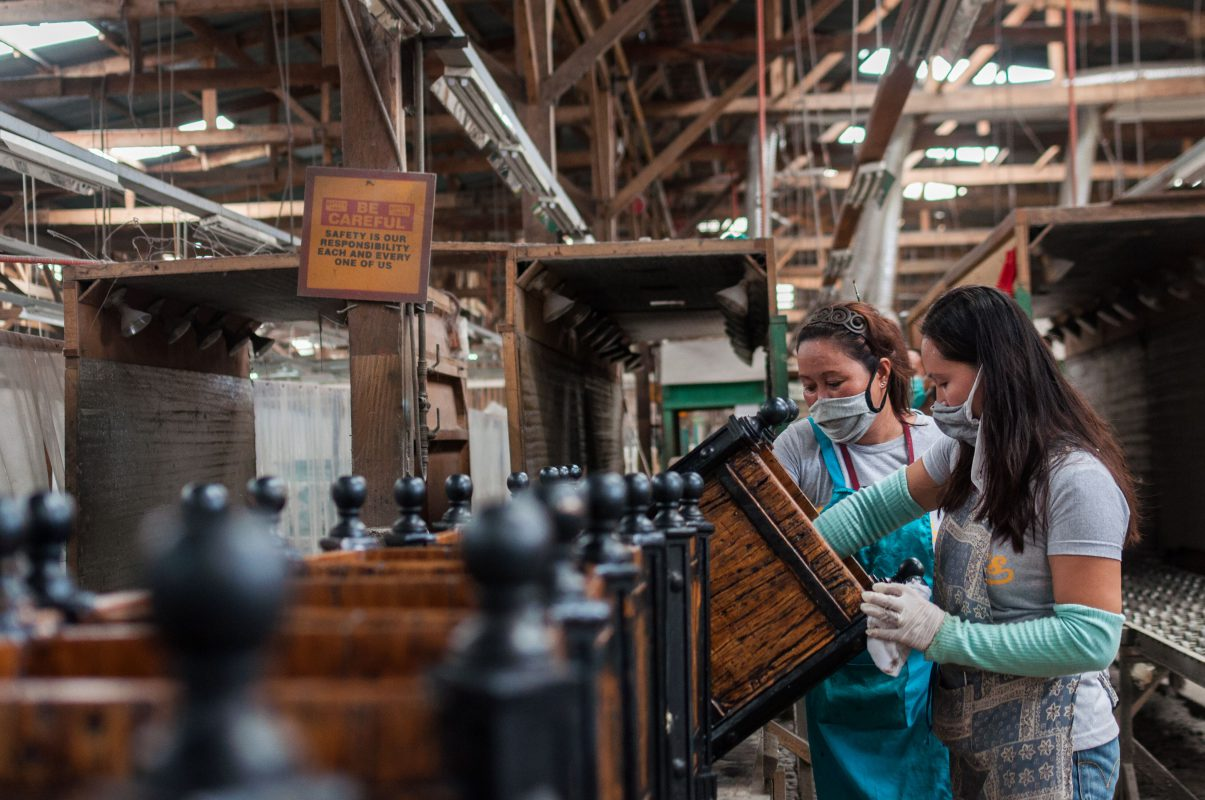
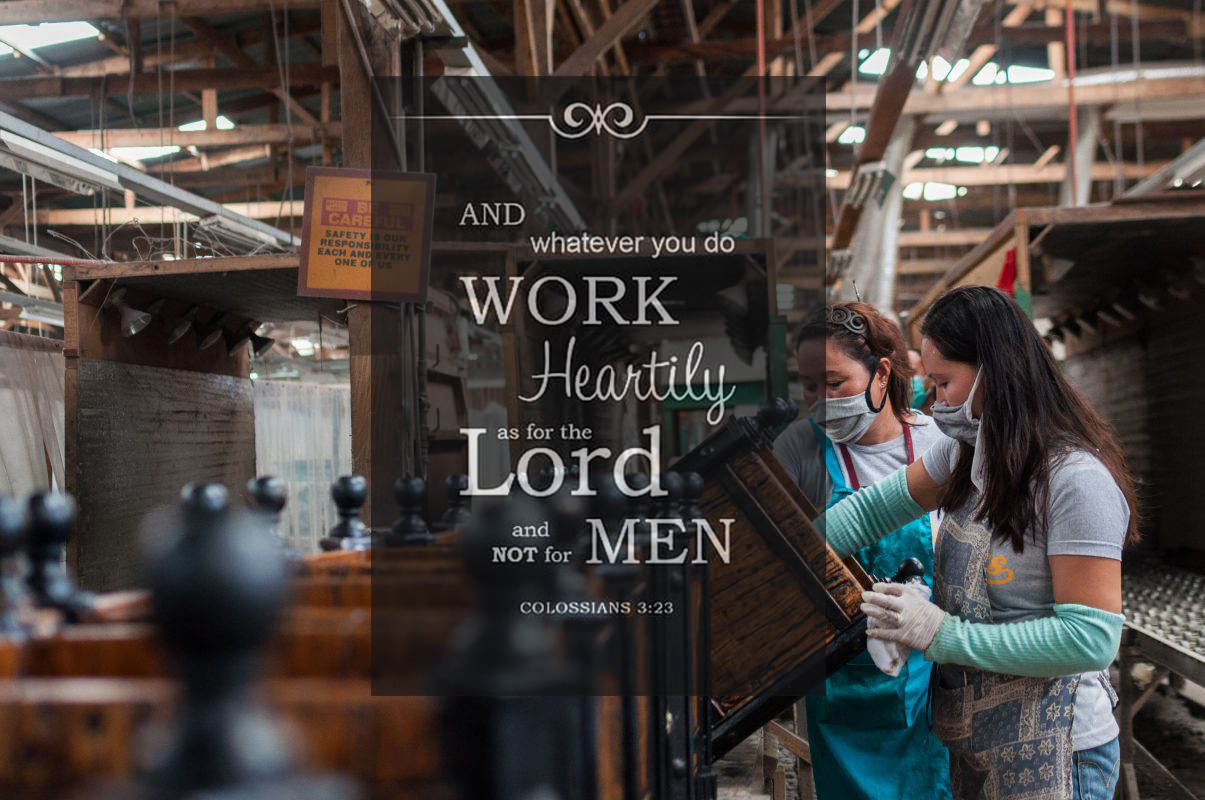
version1

Changed region(s): [[0.3071, 0.0938, 0.7062, 0.875]]

diff --git a/src/api/index.js b/src/api/index.js
@@ -1,6 +1,6 @@
 import axios from 'axios';
 
-const API = axios.create({baseURL: 'http://10.0.1.221:5000/oc'});
+const API = axios.create({baseURL: 'http://10.0.1.249:5001/oc'});
 //const API = axios.create({baseURL: 'http://10.0.1.221:5000/oc'});
 
 //PO
